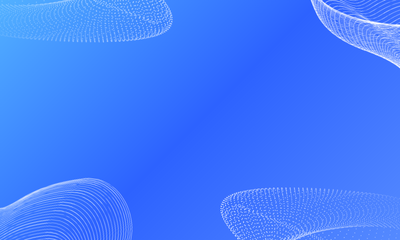
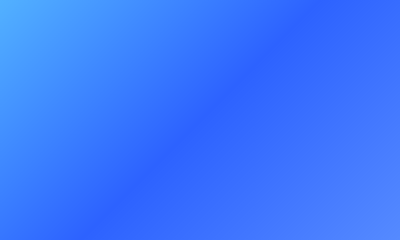
begin 3d stuff

diff --git a/source/main.cpp b/source/main.cpp
@@ -18,7 +18,7 @@ void enter(char* inout, size_t len, SwkbdType kbtype, bool pinInput) {
     swkbdInit(&swkbd, kbtype, 1, len);
     if(pinInput) {
         swkbdSetValidation(&swkbd, SWKBD_FIXEDLEN, 0, 0);
-        swkbdSetHintText(&swkbd, "Pairing PIN");
+        swkbdSetHintText(&swkbd, "Pair Code");
     }
     swkbdSetFeatures(&swkbd, SWKBD_ALLOW_HOME | SWKBD_ALLOW_POWER);
     swkbdSetInitialText(&swkbd, inout);
@@ -62,7 +62,7 @@ int main(int argc, char** argv) {
     
 
     int result;
-    char pairingcode[33] = "";
+    char paircode[33] = "";
     char address[52] = "http://soap.gorgerush.net:9023/submit";
     initContext(&ctx);
     initColors(&ctx);
@@ -70,12 +70,13 @@ int main(int argc, char** argv) {
     std::string finaltext;
     std::string outputData;
     bool usenandessential = false;
-    bool setpairingcodeviaserial = false;
+    bool setpaircodeviaserial = false;
     int frame_counter = 0;
     CURLM* multi_handle;
     int request_in_progress = 1;
     int msgs_left = 0;
     bool touch_let_go = false;
+    float slider;
 
     if (!initSocket()) {
         goto fail;
@@ -94,22 +95,14 @@ int main(int argc, char** argv) {
 
 
     sheet = C2D_SpriteSheetLoad("romfs:/gfx/sprites.t3x");
-    C2D_Sprite bhlogo, topstart, topbg, bottombg, infoicon;
-    C2D_SpriteFromSheet(&bhlogo, sheet, 0);
-    C2D_SpriteFromSheet(&topstart, sheet, 1);
-    C2D_SpriteFromSheet(&topbg, sheet, 2);
+    C2D_Sprite bottombg, infoicon;
+    C2D_Image topbg, topdots, toplogo;
     C2D_SpriteFromSheet(&bottombg, sheet, 3);
     C2D_SpriteFromSheet(&infoicon, sheet, 4);
 
-    C2D_SpriteSetPos(&bhlogo, 10, 10);
-    C2D_SpriteSetScale(&bhlogo, 0.4, 0.4);
-    C2D_SpriteSetCenter(&bhlogo, 0.0, 0.0);
-
-    C2D_SpriteSetPos(&topstart, 0, 0);
-    C2D_SpriteSetCenter(&topstart, 0, 0);
-
-    C2D_SpriteSetPos(&topbg, 0, 0);
-    C2D_SpriteSetCenter(&topbg, 0, 0);
+    topbg = C2D_SpriteSheetGetImage(sheet, 0);
+    topdots = C2D_SpriteSheetGetImage(sheet, 1);
+    toplogo = C2D_SpriteSheetGetImage(sheet, 2);
 
     C2D_SpriteSetPos(&bottombg, 0, 0);
     C2D_SpriteSetCenter(&bottombg, 0, 0);
@@ -128,36 +121,69 @@ int main(int argc, char** argv) {
         touchPosition touch;
         hidTouchRead(&touch);
         u32 kDown = hidKeysHeld();
+        slider = osGet3DSliderState();
 
         C3D_FrameBegin(C3D_FRAME_SYNCDRAW);
-        C2D_TargetClear(ctx.top, ctx.clrBgDark);
+        C2D_TargetClear(ctx.left, ctx.clrBgDark);
+        C2D_TargetClear(ctx.right, ctx.clrBgDark);
         C2D_TargetClear(ctx.bottom, ctx.clrBgDark);
         C2D_SceneBegin(ctx.bottom);
         C2D_DrawSprite(&bottombg);
-        C2D_SceneBegin(ctx.top);
         
         switch(menustate) {
             case 0:
-                C2D_DrawSprite(&topstart);
-                drawText(20, 210, 0, 0.5, ctx.clrWhite, 0, "Server address: %s", address);
-                if(setpairingcodeviaserial) {
-                    drawText(20, 190, 0, 0.5, ctx.clrWhite, 0, "Username set to match serial");
+                C2D_SceneBegin(ctx.left);
+                C2D_DrawImageAt(topbg, -4*slider, 0, 0);
+                C2D_DrawImageAt(topdots, 0, 0, 0);
+                C2D_DrawImageAt(toplogo, 4*slider, 0, 0);
+                drawText(20+(4*slider), 190, 0, 0.5, ctx.clrWhite, 0, "Slider: %f", slider);
+                drawText(20+(4*slider), 210, 0, 0.5, ctx.clrWhite, 0, "Server address: %s", address);
+                if(setpaircodeviaserial) {
+                    drawText(20+(4*slider), 190, 0, 0.5, ctx.clrWhite, 0, "Username set to match serial");
                 }
+
+                C2D_SceneBegin(ctx.right);
+                C2D_DrawImageAt(topbg, 4*slider, 0, 0);
+                C2D_DrawImageAt(topdots, 0, 0, 0);
+                C2D_DrawImageAt(toplogo, -4*slider, 0, 0);
+                drawText(20-(4*slider), 190, 0, 0.5, ctx.clrWhite, 0, "Slider: %f", slider);
+                drawText(20-(4*slider), 210, 0, 0.5, ctx.clrWhite, 0, "Server address: %s", address);
+                if(setpaircodeviaserial) {
+                    drawText(20-(4*slider), 190, 0, 0.5, ctx.clrWhite, 0, "Username set to match serial");
+                }
+
                 C2D_SceneBegin(ctx.bottom);
                 drawTextCenter(SCREEN_WIDTH_BOTTOM/2, 0, 0.7, ctx.clrWhite, C2D_AlignCenter, "Press \uE000 to begin!");
                 drawText(SCREEN_WIDTH_BOTTOM/2, 210, 0, 0.4, ctx.clrWhite, C2D_AlignCenter, "Press START to return to the \uE073 HOME Menu.");
                 C2D_DrawSprite(&infoicon);
                 break;
             case 1:
-                C2D_DrawSprite(&topbg);
-                if(strlen(pairingcode)==0) {
-                    drawTextCenter(SCREEN_WIDTH_TOP/2, 0, 0.7, ctx.clrWhite, C2D_AlignCenter, "Please enter the pairing code\nsent within the Discord server.");
+                C2D_SceneBegin(ctx.left);
+                C2D_DrawImageAt(topbg, -4*slider, 0, 0);
+                C2D_DrawImageAt(topdots, 0, 0, 0);
+                if(strlen(paircode)==0) {
+                    drawTextCenter(SCREEN_WIDTH_TOP/2 + (4*slider), 0, 0.7, ctx.clrWhite, C2D_AlignCenter, "Please enter the Pair Code\nsent within the Discord server.");
+                }
+
+                C2D_SceneBegin(ctx.right);
+                C2D_DrawImageAt(topbg, 4*slider, 0, 0);
+                C2D_DrawImageAt(topdots, 0, 0, 0);
+                if(strlen(paircode)==0) {
+                    drawTextCenter(SCREEN_WIDTH_TOP/2 - (4*slider), 0, 0.7, ctx.clrWhite, C2D_AlignCenter, "Please enter the Pair Code\nsent within the Discord server.");
                 }
                 break;
             case 2:
             case 3:
-                C2D_DrawSprite(&topbg);
-                drawTextCenter(SCREEN_WIDTH_TOP/2, 0, 0.7, ctx.clrWhite, C2D_AlignCenter, "Submitting...");
+                C2D_SceneBegin(ctx.left);
+                C2D_DrawImageAt(topbg, -4*slider, 0, 0);
+                C2D_DrawImageAt(topdots, 0, 0, 0);
+                drawTextCenter(SCREEN_WIDTH_TOP/2 + (4*slider), 0, 0.7, ctx.clrWhite, C2D_AlignCenter, "Submitting...");
+
+                C2D_SceneBegin(ctx.right);
+                C2D_DrawImageAt(topbg, 4*slider, 0, 0);
+                C2D_DrawImageAt(topdots, 0, 0, 0);
+                drawTextCenter(SCREEN_WIDTH_TOP/2 - (4*slider), 0, 0.7, ctx.clrWhite, C2D_AlignCenter, "Submitting...");
+
                 C2D_SceneBegin(ctx.bottom);
                 drawTextCenter(SCREEN_WIDTH_BOTTOM/2, 0, 1, ctx.clrWhite, C2D_AlignCenter, getLoadingFrame(frame_counter));
                 break;
@@ -167,19 +193,37 @@ int main(int argc, char** argv) {
                     //drawText(SCREEN_WIDTH_TOP/2, SCREEN_HEIGHT*3/4, 0, 0.5, ctx.clrRed, C2D_AlignCenter, finaltext.c_str());
                     showError(finaltext.c_str());
                     menustate = 0;
-                    pairingcode[0] = '\0';
-                    setpairingcodeviaserial = false;
+                    paircode[0] = '\0';
+                    setpaircodeviaserial = false;
                     continue;
                 } else {
-                    C2D_DrawSprite(&topbg);
-                    drawTextCenter(SCREEN_WIDTH_TOP/2, 0, 0.5, ctx.clrWhite, C2D_AlignCenter, finaltext.c_str());
+                    C2D_SceneBegin(ctx.left);
+                    C2D_DrawImageAt(topbg, -4*slider, 0, 0);
+                    C2D_DrawImageAt(topdots, 0, 0, 0);
+                    drawTextCenter(SCREEN_WIDTH_TOP/2 + (4*slider), 0, 0.5, ctx.clrWhite, C2D_AlignCenter, finaltext.c_str());
+
+                    C2D_SceneBegin(ctx.right);
+                    C2D_DrawImageAt(topbg, 4*slider, 0, 0);
+                    C2D_DrawImageAt(topdots, 0, 0, 0);
+                    drawTextCenter(SCREEN_WIDTH_TOP/2 - (4*slider), 0, 0.5, ctx.clrWhite, C2D_AlignCenter, finaltext.c_str());
+
                     C2D_SceneBegin(ctx.bottom);
                     drawTextCenter(SCREEN_WIDTH_BOTTOM/2, 0, 0.7, ctx.clrWhite, C2D_AlignCenter, "Press \uE000 to power off.");
                 }
                 break;
             case 5:
-                C2D_DrawSprite(&topstart);
-                drawText(SCREEN_WIDTH_TOP/2, 200, 0, 0.7, ctx.clrWhite, C2D_AlignCenter, "Application Info");
+                C2D_SceneBegin(ctx.left);
+                C2D_DrawImageAt(topbg, -4*slider, 0, 0);
+                C2D_DrawImageAt(topdots, 0, 0, 0);
+                C2D_DrawImageAt(toplogo, 4*slider, 0, 0);
+                drawText(SCREEN_WIDTH_TOP/2 + (4*slider), 200, 0, 0.7, ctx.clrWhite, C2D_AlignCenter, "Application Info");
+                
+                C2D_SceneBegin(ctx.right);
+                C2D_DrawImageAt(topbg, 4*slider, 0, 0);
+                C2D_DrawImageAt(topdots, 0, 0, 0);
+                C2D_DrawImageAt(toplogo, -4*slider, 0, 0);
+                drawText(SCREEN_WIDTH_TOP/2 - (4*slider), 200, 0, 0.7, ctx.clrWhite, C2D_AlignCenter, "Application Info");
+
                 C2D_SceneBegin(ctx.bottom);
                 drawTextCenter(SCREEN_WIDTH_BOTTOM/2, 0, 0.4, ctx.clrWhite, C2D_AlignCenter,
                     "Created by the Bluehax team\n"
@@ -192,7 +236,8 @@ int main(int argc, char** argv) {
                     getNANDEssentialSerial(),
                     getSecinfoSerial(),
                     getTWLNSerial()
-                );
+                );\
+                drawText(SCREEN_WIDTH_BOTTOM/2, 210, 0, 0.4, ctx.clrWhite, C2D_AlignCenter, "Press \uE001 to return to the main menu.");
                 break;
 
         }
@@ -220,8 +265,8 @@ int main(int argc, char** argv) {
                     enter(address, 51, SWKBD_TYPE_NORMAL, false);
                 }
                 if ((kDown & KEY_L) && (kDown & KEY_DUP)) {
-                    sprintf(pairingcode, getNANDEssentialSerial());
-                    setpairingcodeviaserial = true;
+                    sprintf(paircode, getNANDEssentialSerial());
+                    setpaircodeviaserial = true;
                 }
                 if (strlen(address) > 0 && (kDown & KEY_A)) {
                     menustate++;
@@ -239,8 +284,8 @@ int main(int argc, char** argv) {
                 }
                 break;
             case 1:
-                if(strlen(pairingcode) == 0) {
-                    enter(pairingcode, 4, SWKBD_TYPE_NUMPAD, true);
+                if(strlen(paircode) == 0) {
+                    enter(paircode, 4, SWKBD_TYPE_NUMPAD, true);
                 } else {
                     menustate++;
                 }
@@ -256,7 +301,7 @@ int main(int argc, char** argv) {
                 }
                 initcurl();
                 initform(); 
-                pairingcodeentry(pairingcode);
+                paircodeentry(paircode);
                 if (usenandessential) {
                     essentialdataentry();
                 } else {

diff --git a/source/ui.cpp b/source/ui.cpp
@@ -2,6 +2,7 @@
 #include <stdarg.h>
 
 int initUI() {
+    gfxSet3D(true);
     if (!C3D_Init(C3D_DEFAULT_CMDBUF_SIZE)) {
         return -1;
     }
@@ -19,7 +20,8 @@ void exitUI() {
 
 void initContext(DrawContext* ctx)
 {
-    ctx->top = C2D_CreateScreenTarget(GFX_TOP, GFX_LEFT);
+    ctx->left = C2D_CreateScreenTarget(GFX_TOP, GFX_LEFT);
+    ctx->right = C2D_CreateScreenTarget(GFX_TOP, GFX_RIGHT);
     ctx->bottom = C2D_CreateScreenTarget(GFX_BOTTOM, GFX_LEFT);
 }
 

diff --git a/source/network.cpp b/source/network.cpp
@@ -49,7 +49,7 @@ void initform() {
     mime = curl_mime_init(curl);
 }
 
-void pairingcodeentry(const char* handle) {
+void paircodeentry(const char* handle) {
     part1 = curl_mime_addpart(mime);
     curl_mime_data(part1, handle, CURL_ZERO_TERMINATED);
     curl_mime_name(part1, "pairingcode");

diff --git a/source/network.hpp b/source/network.hpp
@@ -4,7 +4,7 @@
 bool initSocket();
 void initcurl();
 void initform();
-void pairingcodeentry(const char* handle);
+void paircodeentry(const char* handle);
 void essentialdataentry();
 void fileentry(const char* filepath);
 void serialentry(const char* name, char* serial);

diff --git a/source/ui.hpp b/source/ui.hpp
@@ -6,8 +6,9 @@
 #define SCREEN_HEIGHT 240
 
 typedef struct {
-    C3D_RenderTarget* top;
     C3D_RenderTarget* bottom;
+    C3D_RenderTarget* left;
+    C3D_RenderTarget* right;
     u32 clrBlack;
     u32 clrWhite;
     u32 clrRed;
